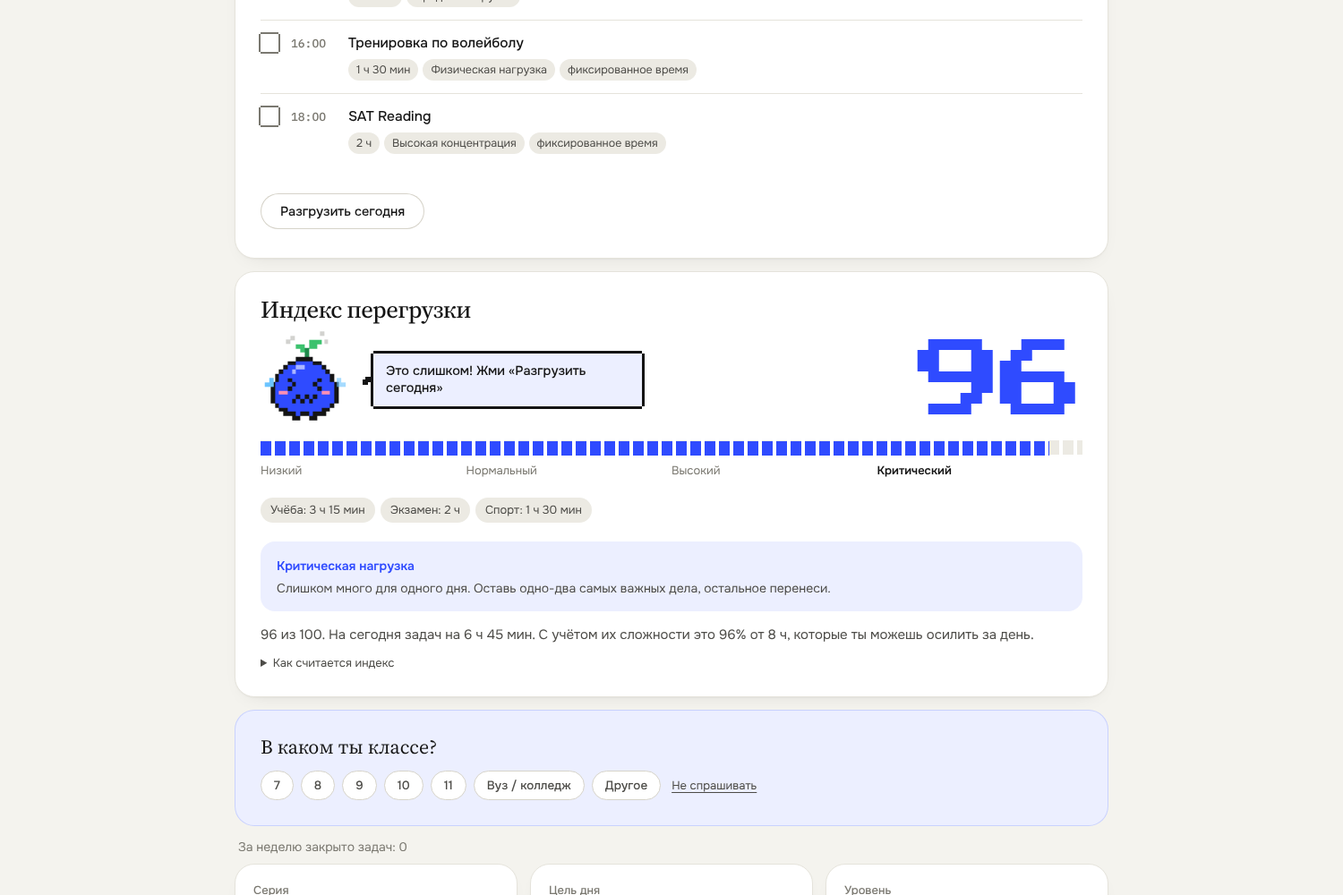
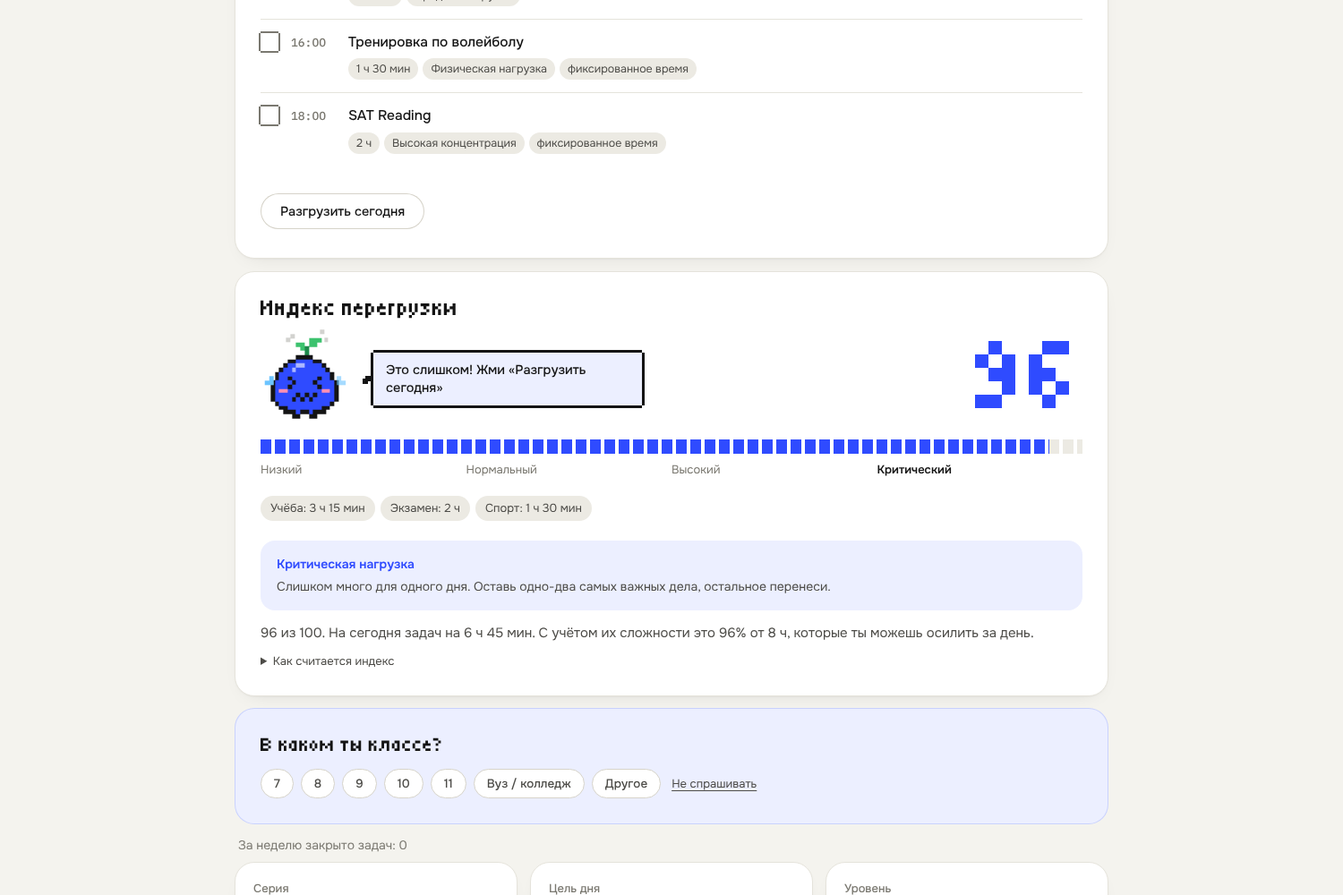
Make Google Calendar easy to find; pixel type for headings
Google Calendar now has its own window that opens from a button in the top
bar, a button on the plan for today and Settings. It shows whether the
calendar is connected and when it last synced, and explains the three ways in
plain steps: connect and sync both ways, download the plan as .ics, or load
the exported file. Events from the calendar get a Google tag in the plan, and
the task button is now «+ Calendar».

Headings and big numbers use Tiny5, a pixel face that matches Loady and the
pixel bars, instead of a serif. The top bar is wider so its buttons fit.

diff --git a/extras.js b/extras.js
@@ -313,13 +313,14 @@ const GOOGLE_CLIENT_ID = "419464428310-6sjn06369vm13960h1k15ksdn8j0o8m5.apps.goo
                 : T("Google Calendar error: ", "Ошибка Google Календаря: ") + e.message);
         }
         syncing = false;
+        renderCal();
     }
     // coming back to the tab re-syncs if already connected (no popup)
     document.addEventListener("visibilitychange", () => { if (document.visibilityState === "visible" && token && state.gcalSync) syncGoogle(false); });
     setInterval(() => { if (token && state.gcalSync && document.visibilityState === "visible") syncGoogle(false); }, 10 * 6e4);
 
     let lastMsg = "";
-    function calMsg(m) { lastMsg = m; const p = $("calMsg"); if (p) p.textContent = m; }
+    function calMsg(m) { lastMsg = m; renderCal(); }
 
     // ---------- toast + confetti ----------
     function toast(text) {
@@ -399,27 +400,91 @@ const GOOGLE_CLIENT_ID = "419464428310-6sjn06369vm13960h1k15ksdn8j0o8m5.apps.goo
         const c = box.querySelector(".lm-tip-ctx"); c.textContent = ctx; c.hidden = !ctx;
     }
     function renderCal() {
-        const box = $("lmCal"); if (!box) return;
-        box.querySelector("h2").textContent = T("Google Calendar", "Google Календарь");
-        const fileWay = T("Or bring it in as a file: on a computer open Google Calendar → Settings → Import & export → Export, then pick the downloaded .zip (or an .ics file) here. Events for the next 14 days become fixed-time tasks, so the plan works around them.", "Или загрузи его файлом: на компьютере открой Google Календарь → Настройки → Импорт и экспорт → Экспорт и выбери здесь скачанный .zip (или .ics-файл). События на 14 дней вперёд станут задачами с фиксированным временем, и план построится вокруг них.");
-        box.querySelector(".lm-cal-about").textContent = GOOGLE_CLIENT_ID
-            ? T("Events from your Google Calendar appear here as fixed-time tasks, so the plan works around them. Your LoadMind tasks with a time or deadline go to Google Calendar. Syncs again when you come back to the tab. ", "События из Google Календаря появляются здесь как задачи с фиксированным временем — план строится вокруг них. Задачи LoadMind со временем или дедлайном уходят в Google Календарь. Синхронизация повторяется, когда возвращаешься на вкладку. ") + fileWay
-            : fileWay.replace(/^(Or bring it in as a file|Или загрузи его файлом)/, m => T("Bring your Google Calendar into LoadMind", "Перенеси Google Календарь в LoadMind"));
-        const g = $("calGoogle"); g.hidden = !GOOGLE_CLIENT_ID;
-        g.textContent = state.gcalSync && token ? T("Sync now", "Синхронизировать") : T("Connect Google Calendar", "Подключить Google Календарь");
-        $("calFileBtn").textContent = T("Import calendar file", "Загрузить файл календаря");
-        $("icsButton").textContent = T("Export plan and deadlines (.ics)", "Выгрузить план и дедлайны (.ics)");
+        if (!$("lmCal")) return;
         const n = state.tasks.filter(t => (t.src === "gcal" || t.src === "ics") && !t.done).length;
+        const connected = !!state.gcalSync, live = connected && !!token;
+        const when = iso => new Date(iso).toLocaleString(isRu() ? "ru-RU" : "en-GB", { day: "numeric", month: "short", hour: "2-digit", minute: "2-digit" });
+
+        // where it can be opened from: the top bar, the plan on Today, Settings
+        const short = syncing ? T("Syncing…", "Синхронизация…")
+            : live ? T("Calendar synced", "Календарь синхронизирован")
+            : connected ? T("Update calendar", "Обновить календарь")
+            : state.gcalImported ? T("Calendar from file", "Календарь из файла")
+            : T("Connect Google Calendar", "Подключить Google Календарь");
+        $("calPillText").textContent = short;
+        $("calPill").classList.toggle("on", connected || !!state.gcalImported);
+        $("calPill").title = T("Google Calendar", "Google Календарь");
+        $("calBtnText").textContent = T("Calendar", "Календарь");
+        $("calBtn").title = T("Google Calendar", "Google Календарь");
+        $("calBtn").setAttribute("aria-label", T("Google Calendar", "Google Календарь"));
+        $("calBtn").querySelector(".cal-dot").hidden = !connected;
+
+        const status = live ? T(`Connected. Last sync: ${when(state.gcalSync)}. It syncs again by itself every 10 minutes while LoadMind is open.`, `Подключён. Последняя синхронизация: ${when(state.gcalSync)}. Пока LoadMind открыт, он сам обновляется каждые 10 минут.`)
+            : connected ? T(`Was connected before (last sync: ${when(state.gcalSync)}). Press «Sync» to update.`, `Уже подключали (последняя синхронизация: ${when(state.gcalSync)}). Нажми «Синхронизировать», чтобы обновить.`)
+            : state.gcalImported ? T(`Loaded from a file: ${when(state.gcalImported)}. Events for the next 14 days are in your plan.`, `Загружен из файла: ${when(state.gcalImported)}. События на 14 дней вперёд уже в плане.`)
+            : T("Not connected yet.", "Пока не подключён.");
+        $("calStatus").textContent = status;
+        $("calStatus").classList.toggle("on", connected || !!state.gcalImported);
+        $("calSetText").textContent = status;
+        $("calSetHead").textContent = T("Google Calendar", "Google Календарь");
+        $("calOpenSettings").textContent = T("Open calendar settings", "Открыть календарь");
+
+        $("calHead").textContent = T("Google Calendar", "Google Календарь");
+        $("calClose").setAttribute("aria-label", T("Close", "Закрыть"));
+        $("calStepSync").hidden = !GOOGLE_CLIENT_ID;
+        $("calSyncH").textContent = connected ? T("Sync both ways", "Синхронизация в обе стороны") : T("Connect once, then it works by itself", "Подключи один раз, дальше всё само");
+        $("calSyncP").textContent = T("LoadMind takes your events for the next 14 days (classes, training, meetings) and puts them into the plan at their time, so everything else is planned around them. Your LoadMind tasks with a time or a deadline go to Google Calendar.",
+            "LoadMind берёт события на 14 дней вперёд (уроки, секции, встречи) и ставит их в план на их время, а остальное планирует вокруг. Твои задачи со временем или дедлайном уходят в Google Календарь.");
+        $("calGoogle").textContent = syncing ? T("Syncing…", "Синхронизация…") : connected ? T("Sync now", "Синхронизировать") : T("Connect Google Calendar", "Подключить Google Календарь");
+        $("calGoogle").disabled = syncing;
+
+        $("calOutH").textContent = T("Send the plan to a calendar without connecting", "Отправить план в календарь без подключения");
+        $("calOutP").textContent = T("Download an .ics file with today's plan and your deadlines. On a phone the calendar app opens it; in Google Calendar on a computer use Settings → Import & export → Import. One task at a time: «+ Calendar» next to it in Tasks.",
+            "Скачай файл .ics с планом на сегодня и дедлайнами. На телефоне его откроет приложение календаря, в Google Календаре на компьютере: Настройки → Импорт и экспорт → Импорт. Одну задачу можно отправить кнопкой «+ Календарь» рядом с ней в разделе «Задачи».");
+        $("icsButton").textContent = T("Download plan and deadlines (.ics)", "Скачать план и дедлайны (.ics)");
+
+        $("calFileH").textContent = T("Can't connect to Google? Load the calendar as a file", "Не получается подключить Google? Загрузи календарь файлом");
+        const steps = isRu()
+            ? ["На компьютере открой calendar.google.com → Настройки (шестерёнка) → Импорт и экспорт.", "Нажми «Экспорт», скачается .zip-файл.", "Выбери этот файл здесь. Распаковывать не нужно: события на 14 дней вперёд сразу встанут в план."]
+            : ["On a computer open calendar.google.com → Settings (the gear) → Import & export.", "Press «Export»: a .zip file downloads.", "Pick that file here, no need to unzip it. Events for the next 14 days go straight into the plan."];
+        $("calFileSteps").replaceChildren(...steps.map(t => el("li", "", t)));
+        $("calFileBtn").textContent = T("Choose calendar file", "Выбрать файл календаря");
+
         $("calRemove").hidden = !n;
-        $("calRemove").textContent = T(`Remove imported (${n})`, `Убрать импортированные (${n})`);
-        const msg = lastMsg || (state.gcalSync ? T("Last sync: ", "Последняя синхронизация: ") + new Date(state.gcalSync).toLocaleString(isRu() ? "ru-RU" : "en-GB") : state.gcalImported ? T("Last import: ", "Последний импорт: ") + new Date(state.gcalImported).toLocaleString(isRu() ? "ru-RU" : "en-GB") : "");
-        $("calMsg").textContent = msg;
+        $("calRemove").textContent = T(`Remove imported events (${n})`, `Убрать импортированные события (${n})`);
+        $("calMsg").textContent = lastMsg;
     }
+
+    // the calendar window
+    const calVeil = $("calVeil");
+    let calBack = null;
+    function openCal() {
+        calBack = document.activeElement;
+        renderCal();
+        calVeil.hidden = false;
+        document.body.classList.add("auth-open");
+        setTimeout(() => { const b = $("calStepSync").hidden ? $("icsButton") : $("calGoogle"); b && b.focus(); }, 30);
+    }
+    function closeCal() {
+        calVeil.hidden = true;
+        document.body.classList.remove("auth-open");
+        if (calBack && calBack.focus) calBack.focus();
+    }
+    document.addEventListener("click", e => {
+        if (e.target.closest("#calBtn, #calPill, #calOpenSettings")) openCal();
+        else if (e.target.closest("#calClose")) closeCal();
+    });
+    calVeil.addEventListener("mousedown", e => { if (e.target === calVeil) closeCal(); });
+    document.addEventListener("keydown", e => { if (!calVeil.hidden && e.key === "Escape") { e.preventDefault(); closeCal(); } });
 
     const origRender = render;
     render = function () {
         origRender.apply(this, arguments);
         try { renderToday(); renderBadges(); renderTips(); renderCal(); } catch (e) { console.error(e); }
+        document.querySelectorAll(".lm-plan .task").forEach(row => {
+            const c = row.querySelector(".check input"), t = c && state.tasks.find(x => x.id === Number(c.dataset.id)), sm = row.querySelector("small");
+            if (t && (t.src === "gcal" || t.src === "ics") && sm && !sm.dataset.cal) { sm.dataset.cal = "1"; sm.textContent += " · Google"; }
+        });
         document.querySelectorAll(".task-row").forEach(row => {
             const id = Number((row.querySelector("input[data-id]") || {}).dataset?.id), t = state.tasks.find(x => x.id === id);
             if (t && (t.src === "gcal" || t.src === "ics") && !row.querySelector(".lm-src")) row.querySelector(".task-name span").append(el("em", "lm-src", " · Google"));

diff --git a/index.html b/index.html
@@ -17,9 +17,9 @@
 
     <link rel="preconnect" href="https://fonts.googleapis.com">
     <link rel="preconnect" href="https://fonts.gstatic.com" crossorigin>
-    <link href="https://fonts.googleapis.com/css2?family=Onest:wght@400;500;600&family=Press+Start+2P&family=Source+Serif+4:ital,opsz,wght@0,8..60,400..600;1,8..60,400&display=swap" rel="stylesheet">
+    <link href="https://fonts.googleapis.com/css2?family=Onest:wght@400;500;600&family=Tiny5&display=swap" rel="stylesheet">
     <link rel="stylesheet" href="style.css?v=20261112b">
-    <link rel="stylesheet" href="design.css?v=20261112d">
+    <link rel="stylesheet" href="design.css?v=20261112e">
 
     <script>
     /* one address for everyone: the old workers.dev address moves to loadmind.dev, so sign-ins and data stay in one place */
@@ -124,6 +124,7 @@
             </nav>
             <div class="tools">
                 <button class="pomo-pill" id="pomoPill" type="button" title="Focus timer" hidden></button>
+                <button class="fb-btn cal-btn" id="calBtn" type="button" data-notr aria-label="Google Calendar" title="Google Calendar"><svg viewBox="0 0 24 24" fill="none" stroke="currentColor" stroke-width="1.8" stroke-linecap="round" stroke-linejoin="round" aria-hidden="true"><rect x="3.5" y="5" width="17" height="15.5" rx="2.5"/><path d="M3.5 10h17M8 3v4M16 3v4"/></svg><span id="calBtnText">Calendar</span><i class="cal-dot" hidden></i></button>
                 <button class="fb-btn" id="fbBtn" type="button" data-notr aria-label="Feedback" title="Feedback"><svg viewBox="0 0 24 24" fill="none" stroke="currentColor" stroke-width="1.8" stroke-linecap="round" stroke-linejoin="round" aria-hidden="true"><path d="M21 11.5a8.4 8.4 0 0 1-12.3 7.5L3 20.5l1.6-5A8.4 8.4 0 1 1 21 11.5z"/></svg><span id="fbBtnText">Feedback</span></button>
                 <button class="account-btn" id="accountBtn" type="button" data-notr hidden>Sign in</button>
                 <div class="lang" role="group" aria-label="Language"><button type="button" data-lang="en" class="on">EN</button><span>/</span><button type="button" data-lang="ru">RU</button></div>
@@ -153,7 +154,10 @@
         </section>
 
         <section class="block lm-plan" data-views="dashboard">
-            <h2>Plan for today</h2>
+            <div class="plan-head">
+                <h2>Plan for today</h2>
+                <button class="cal-pill" id="calPill" type="button" data-notr><svg viewBox="0 0 24 24" fill="none" stroke="currentColor" stroke-width="1.8" stroke-linecap="round" stroke-linejoin="round" aria-hidden="true"><rect x="3.5" y="5" width="17" height="15.5" rx="2.5"/><path d="M3.5 10h17M8 3v4M16 3v4"/></svg><span id="calPillText">Google Calendar</span></button>
+            </div>
 
             <div class="schedule" id="schedule"></div>
             <div class="lm-done" id="doneToday" hidden></div>
@@ -351,17 +355,11 @@
             <p id="quoteText"></p>
         </section>
 
-        <section class="block lm-cal" id="lmCal" data-views="settings" data-notr>
-            <h2>Google Calendar</h2>
-            <p class="hint lm-cal-about"></p>
-            <div class="row-actions">
-                <button class="primary-button" id="calGoogle" type="button" hidden></button>
-                <button class="secondary-button" id="calFileBtn" type="button"></button>
-                <button class="secondary-button" id="calRemove" type="button" hidden></button>
-                <button class="secondary-button" data-notr id="icsButton" type="button">Export plan + deadlines (.ics for Google Calendar)</button>
-                <input id="calFile" type="file" accept=".ics,.zip,text/calendar,application/zip" multiple hidden>
+        <section class="block lm-cal-link" data-views="settings" data-notr>
+            <div class="cal-link-row">
+                <div><h2 id="calSetHead">Google Calendar</h2><p class="hint" id="calSetText"></p></div>
+                <button class="secondary-button" id="calOpenSettings" type="button">Open</button>
             </div>
-            <p class="hint" id="calMsg" aria-live="polite"></p>
         </section>
 
         <section class="block lm-badges-block" data-views="focus" data-notr>
@@ -475,6 +473,42 @@
         </div>
     </div>
 
+    <div class="auth-veil" id="calVeil" data-notr hidden>
+        <div class="auth-box cal-box" id="lmCal" role="dialog" aria-modal="true" aria-labelledby="calHead">
+            <button class="icon-btn auth-close" id="calClose" type="button" aria-label="Close">×</button>
+            <h2 id="calHead">Google Calendar</h2>
+            <p class="cal-status" id="calStatus"></p>
+
+            <div class="cal-step" id="calStepSync">
+                <span class="cal-num">1</span>
+                <div>
+                    <h3 id="calSyncH"></h3>
+                    <p class="hint" id="calSyncP"></p>
+                    <div class="row-actions"><button class="primary-button" id="calGoogle" type="button"></button></div>
+                </div>
+            </div>
+
+            <div class="cal-step">
+                <span class="cal-num">2</span>
+                <div>
+                    <h3 id="calOutH"></h3>
+                    <p class="hint" id="calOutP"></p>
+                    <div class="row-actions"><button class="secondary-button" id="icsButton" type="button">Export plan + deadlines (.ics for Google Calendar)</button></div>
+                </div>
+            </div>
+
+            <details class="cal-step cal-file">
+                <summary><span class="cal-num">?</span><span id="calFileH"></span></summary>
+                <ol class="cal-howto" id="calFileSteps"></ol>
+                <div class="row-actions"><button class="secondary-button" id="calFileBtn" type="button"></button></div>
+                <input id="calFile" type="file" accept=".ics,.zip,text/calendar,application/zip" multiple hidden>
+            </details>
+
+            <p class="cal-msg" id="calMsg" aria-live="polite"></p>
+            <button class="link-btn" id="calRemove" type="button" hidden></button>
+        </div>
+    </div>
+
     <div class="auth-veil" id="fbVeil" data-notr hidden>
         <form class="auth-box fb-box" id="fbForm" role="dialog" aria-modal="true" aria-labelledby="fbHead" novalidate>
             <button class="icon-btn auth-close" id="fbClose" type="button" aria-label="Close">×</button>
@@ -489,16 +523,16 @@
     </div>
 
     <script src="https://cdn.jsdelivr.net/npm/@supabase/supabase-js@2"></script>
-    <script src="script.js?v=20261112b"></script>
-    <script src="auth.js?v=20261112b"></script>
-    <script src="pomodoro.js?v=20261112b"></script>
-    <script src="extras.js?v=20261112b"></script>
-    <script src="today.js?v=20261112b"></script>
-    <script src="research.js?v=20261112b"></script>
-    <script src="feedback.js?v=20261112b"></script>
-    <script src="ui.js?v=20261112b"></script>
-    <script src="mascot.js?v=20261112d"></script>
-    <script src="design.js?v=20261112d"></script>
+    <script src="script.js?v=20261112e"></script>
+    <script src="auth.js?v=20261112e"></script>
+    <script src="pomodoro.js?v=20261112e"></script>
+    <script src="extras.js?v=20261112e"></script>
+    <script src="today.js?v=20261112e"></script>
+    <script src="research.js?v=20261112e"></script>
+    <script src="feedback.js?v=20261112e"></script>
+    <script src="ui.js?v=20261112e"></script>
+    <script src="mascot.js?v=20261112e"></script>
+    <script src="design.js?v=20261112e"></script>
 
 </body>
 </html>

diff --git a/design.css b/design.css
@@ -397,3 +397,75 @@ textarea { border-radius: var(--r-row); padding: 14px 16px; }
     .l-body, .l-blink, .l-eyes, .l-sweat, .l-steam, .l-zzz, .header h1 { animation: none !important; }
     .large-progress-fill, .day-bar i, .lm-bar i, .lm-nav-pill { transition: none; }
 }
+
+/* ---------- Google Calendar: easy to find ---------- */
+.cal-btn { position: relative; }
+.cal-dot { position: absolute; top: 5px; right: 5px; width: 8px; height: 8px; background: #2fbf6a; box-shadow: 0 0 0 2px var(--paper-raised); }
+@media (max-width: 640px) { .cal-btn { display: none; } }
+
+.plan-head { display: flex; align-items: center; justify-content: space-between; gap: 12px; flex-wrap: wrap; margin-bottom: 16px; }
+.plan-head h2 { margin-bottom: 0; }
+.cal-pill { display: inline-flex; align-items: center; gap: 8px; height: 36px; padding: 0 14px 0 12px; border-radius: 999px; cursor: pointer;
+    border: 1px dashed color-mix(in srgb, var(--accent) 55%, transparent); background: var(--accent-soft); color: var(--accent); font: 500 13.5px var(--sans);
+    transition: background .2s, transform .15s; }
+.cal-pill svg { width: 17px; height: 17px; flex: none; }
+.cal-pill:hover { background: color-mix(in srgb, var(--accent) 16%, var(--paper-raised)); }
+.cal-pill.on { border: 1px solid var(--line); background: var(--paper-raised); color: var(--ink-2); }
+.cal-pill.on::after { content: ""; width: 8px; height: 8px; background: #2fbf6a; margin-left: 2px; }
+.cal-pill:active { transform: scale(.96); }
+
+.cal-link-row { display: flex; align-items: center; justify-content: space-between; gap: 16px; flex-wrap: wrap; }
+.cal-link-row h2 { margin-bottom: 4px; }
+.cal-link-row .hint { margin: 0; max-width: 60ch; }
+
+.cal-box { width: min(560px, 100%); display: grid; gap: 12px; }
+.cal-box h2 { margin-bottom: 0; }
+.cal-status { margin: 0 0 4px; padding: 10px 14px; border-radius: 12px; background: var(--soft); color: var(--ink-2); font-size: 14px; line-height: 1.45; }
+.cal-status.on { background: color-mix(in srgb, #2fbf6a 14%, var(--paper-raised)); color: var(--ink); }
+.cal-step { display: grid; grid-template-columns: 34px 1fr; gap: 14px; padding: 16px; border: 1px solid var(--rule); border-radius: 18px; }
+.cal-step h3 { font: 600 16px / 1.3 var(--sans); margin: 4px 0 6px; }
+.cal-step .hint { margin: 0 0 12px; font-size: 14px; line-height: 1.5; }
+.cal-step .row-actions { margin: 0; }
+.cal-num { width: 34px; height: 34px; display: grid; place-items: center; background: var(--accent); color: var(--paper-raised); font: 400 16px var(--display); }
+.cal-file { display: block; background: var(--paper); }
+.cal-file summary { display: flex; align-items: center; gap: 14px; cursor: pointer; font: 600 15px / 1.3 var(--sans); list-style: none; }
+.cal-file summary::-webkit-details-marker { display: none; }
+.cal-file .cal-num { background: var(--soft); color: var(--ink-2); }
+.cal-howto { margin: 14px 0 14px 48px; padding: 0; display: grid; gap: 8px; color: var(--ink-2); font-size: 14px; line-height: 1.5; }
+.cal-file .row-actions { margin-left: 48px; }
+.cal-msg { margin: 0; font-size: 14px; color: var(--ink-2); }
+.cal-msg:empty { display: none; }
+#calRemove { justify-self: start; }
+@media (max-width: 480px) {
+    .cal-step { grid-template-columns: 1fr; gap: 8px; padding: 14px; }
+    .cal-howto, .cal-file .row-actions { margin-left: 0; }
+    .cal-step .primary-button, .cal-step .secondary-button { width: 100%; }
+}
+.task-row .cal-link { white-space: nowrap; }
+
+/* ---------- type: one pixel face (Tiny5) for headings and numbers, Onest for reading ---------- */
+:root { --display: "Tiny5", var(--sans); --pixel: "Tiny5", var(--mono); }
+.logo { font: 400 23px / 1 var(--display); letter-spacing: 0; }
+.logo em { font-style: normal; font-weight: 400; color: var(--accent); }
+.header h1 { font: 400 clamp(38px, 6vw, 66px) / 1.02 var(--display); letter-spacing: 0; }
+.block h2, .coach h2 { font: 400 26px / 1.15 var(--display); letter-spacing: 0; }
+@media (max-width: 640px) { .block h2, .coach h2 { font-size: 23px; } .logo { font-size: 21px; } }
+.auth-box h2 { font: 400 27px / 1.15 var(--display); letter-spacing: 0; }
+.overload-header .score, #score { font: 400 clamp(78px, 10vw, 120px) / .9 var(--pixel); letter-spacing: 0; }
+.stat-value { font: 400 44px / 1 var(--pixel); letter-spacing: 0; }
+.lm-card strong { font: 400 38px / 1 var(--pixel); letter-spacing: 0; }
+.lm-ring span { font: 400 16px var(--pixel); letter-spacing: 0; }
+.pomo-center strong { font: 400 clamp(56px, 7vw, 78px) / 1 var(--pixel); letter-spacing: 0; margin: 4px 0; }
+@media (max-width: 480px) { .lm-card strong { font-size: 30px; } }
+.lm-tip-text { font: 500 19px / 1.45 var(--sans); letter-spacing: 0; }
+.lm-ask-q { font: 400 23px / 1.25 var(--display); }
+.quote p { font: 400 clamp(24px, 3vw, 34px) / 1.25 var(--display); letter-spacing: 0; max-width: 30ch; }
+.day-name span { font: 600 15.5px var(--sans); }
+.lm-foot span { font: 400 17px var(--display); color: var(--ink-2); }
+.cal-num { font: 400 17px var(--display); }
+
+/* top bar: a bit wider than the page so the labelled buttons fit; the menu never runs under the logo */
+.topbar .wrap { max-width: 1240px; }
+.navigation { max-width: 100%; }
+@media (max-width: 1240px) { .cal-btn, .fb-btn { width: 36px; padding: 0; justify-content: center; } .cal-btn span, .fb-btn span { display: none; } }
+@media (max-width: 480px) { .cal-howto { padding-left: 20px; } }

diff --git a/ui.js b/ui.js
@@ -55,7 +55,7 @@
         "focus": "фокус", "break": "перерыв", "long break": "длинный", "Long break after (sessions)": "Длинный перерыв после (сессий)",
         "Focus length": "Длина фокуса", "Short break length": "Длина перерыва", "Long break length": "Длина длинного перерыва",
         "Focus on this task": "Фокус на этой задаче", "Move to the next day": "Перенести на день вперёд", "Delete": "Удалить", "Delete task": "Удалить задачу",
-        "Add to Google Calendar": "Добавить в Google Календарь", "Sections": "Разделы",
+        "Add to Google Calendar": "Добавить в Google Календарь", "+ Calendar": "+ Календарь", "Sections": "Разделы",
         "Duration, day and time are picked up automatically. Add ! / !! / !!! for priority, «every day» or «по будням» to repeat.": "Длительность, день и время подхватываются сами. Добавь ! / !! / !!! для приоритета, «каждый день» или «по будням» для повтора."
     };
     const LBL = { "High concentration": "Высокая концентрация", "Medium load": "Средняя нагрузка", "Physical load": "Физическая нагрузка", "Light load": "Лёгкая нагрузка", "Exam prep": "Экзамен" };

diff --git a/script.js b/script.js
@@ -619,7 +619,7 @@ function render() {
     $("taskList").replaceChildren(...state.tasks.slice().sort((a, b) => (a.done - b.done) || (a.due || "9").localeCompare(b.due || "9")).map(t => {
         const row = document.createElement("div");
         row.className = "task-row" + (t.done ? " done" : "");
-        row.innerHTML = `<input type="checkbox" data-id="${t.id}"><div class="task-name"><span></span><small></small></div><a class="cal-link" target="_blank" rel="noopener" title="Add to Google Calendar" aria-label="Add to Google Calendar">+ Cal</a><button class="icon-btn small" data-later="${t.id}" title="Move to the next day" aria-label="Move to the next day">→</button><button class="icon-btn" data-del="${t.id}" title="Delete" aria-label="Delete task">×</button>`;
+        row.innerHTML = `<input type="checkbox" data-id="${t.id}"><div class="task-name"><span></span><small></small></div><a class="cal-link" target="_blank" rel="noopener" title="Add to Google Calendar" aria-label="Add to Google Calendar">+ Calendar</a><button class="icon-btn small" data-later="${t.id}" title="Move to the next day" aria-label="Move to the next day">→</button><button class="icon-btn" data-del="${t.id}" title="Delete" aria-label="Delete task">×</button>`;
         row.querySelector("input").checked = t.done;
         row.querySelector("span").textContent = t.title;
         if (t.prio) row.querySelector("span").prepend(prioBadge(t.prio));
